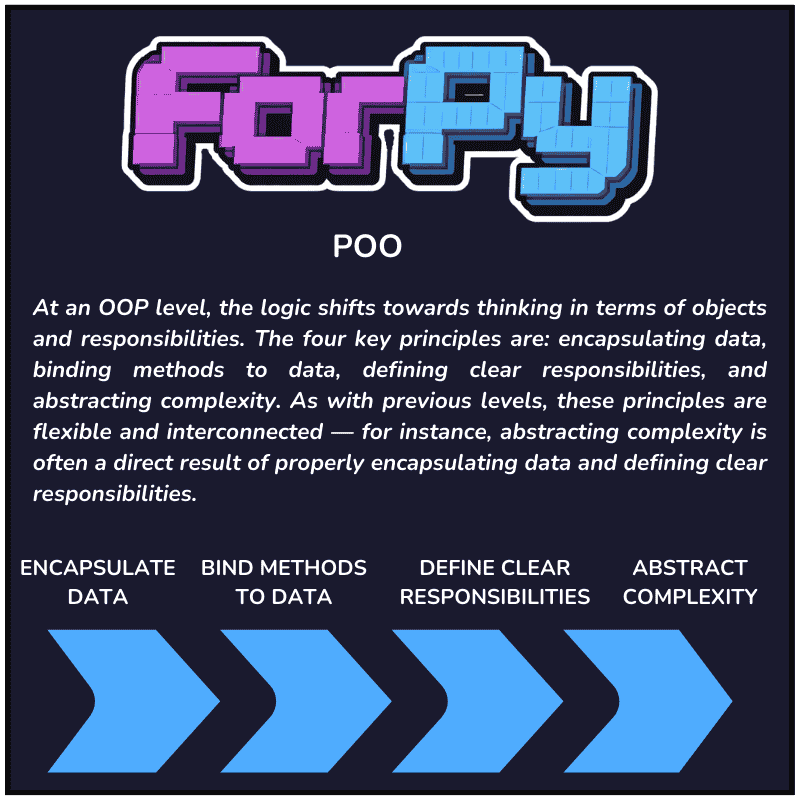
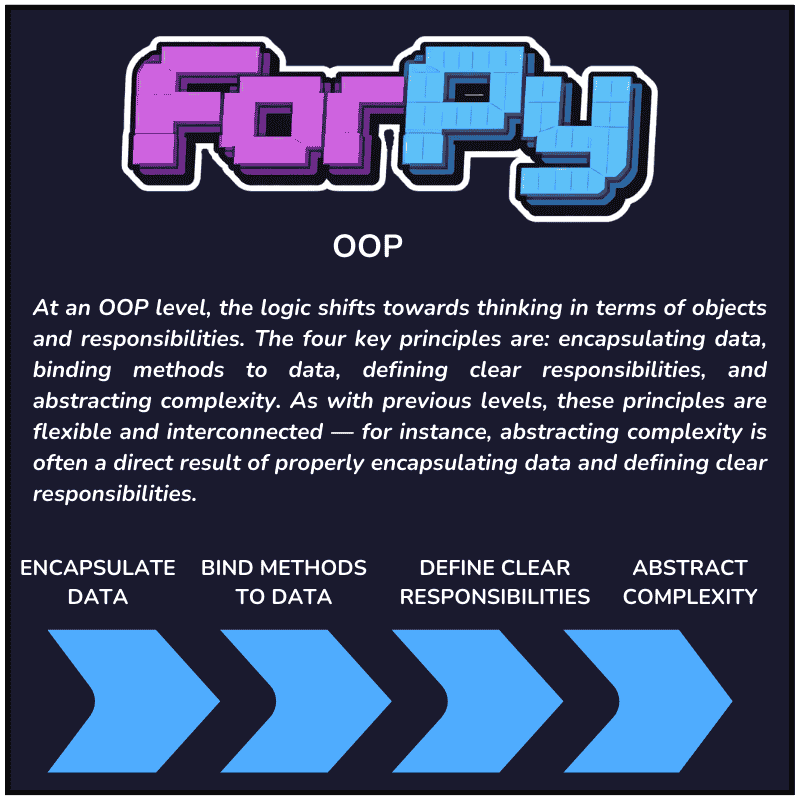
feat: icône app Windows et Android + correction chemin settings Android

diff --git a/screens/settings_screen.py b/screens/settings_screen.py
@@ -168,16 +168,19 @@ def build_settings_screen(page: ft.Page, session: SessionState) -> ft.View:
                         ft.Divider(height=1, color=c["border"], thickness=1),
                         preferences_card,
                         ft.Container(height=8),
-                        ft.ElevatedButton(
-                            content=t["save"],
-                            on_click=save,
-                            height=50,
-                            expand=True,
-                            bgcolor=c["btn_bg"],
-                            color=c["btn_text"],
-                            style=ft.ButtonStyle(
-                                shape=ft.RoundedRectangleBorder(radius=10),
-                            ),
+                        ft.Row(
+                            controls=[
+                                ft.ElevatedButton(
+                                    content=t["save"],
+                                    on_click=save,
+                                    height=50,
+                                    bgcolor=c["btn_bg"],
+                                    color=c["btn_text"],
+                                    style=ft.ButtonStyle(
+                                        shape=ft.RoundedRectangleBorder(radius=10),
+                                    ),
+                                ),
+                            ],
                         ),
                         feedback,
                     ],

diff --git a/utils/session_state.py b/utils/session_state.py
@@ -5,13 +5,11 @@ import sys
 
 def _get_settings_path() -> str:
     if sys.platform == "android":
-        # Android : répertoire de données de l'app (accessible en permanence)
-        base = os.path.expanduser("~")
+        settings_dir = "/data/user/0/com.flet.forpy/files"
     else:
-        # Windows, Linux, macOS : ~/.forpy/
-        base = os.path.expanduser("~")
+        # Windows (win32) et Linux : ~/.forpy/
+        settings_dir = os.path.expanduser("~/.forpy")
 
-    settings_dir = os.path.join(base, ".forpy")
     os.makedirs(settings_dir, exist_ok=True)
     return os.path.join(settings_dir, "settings.json")
 